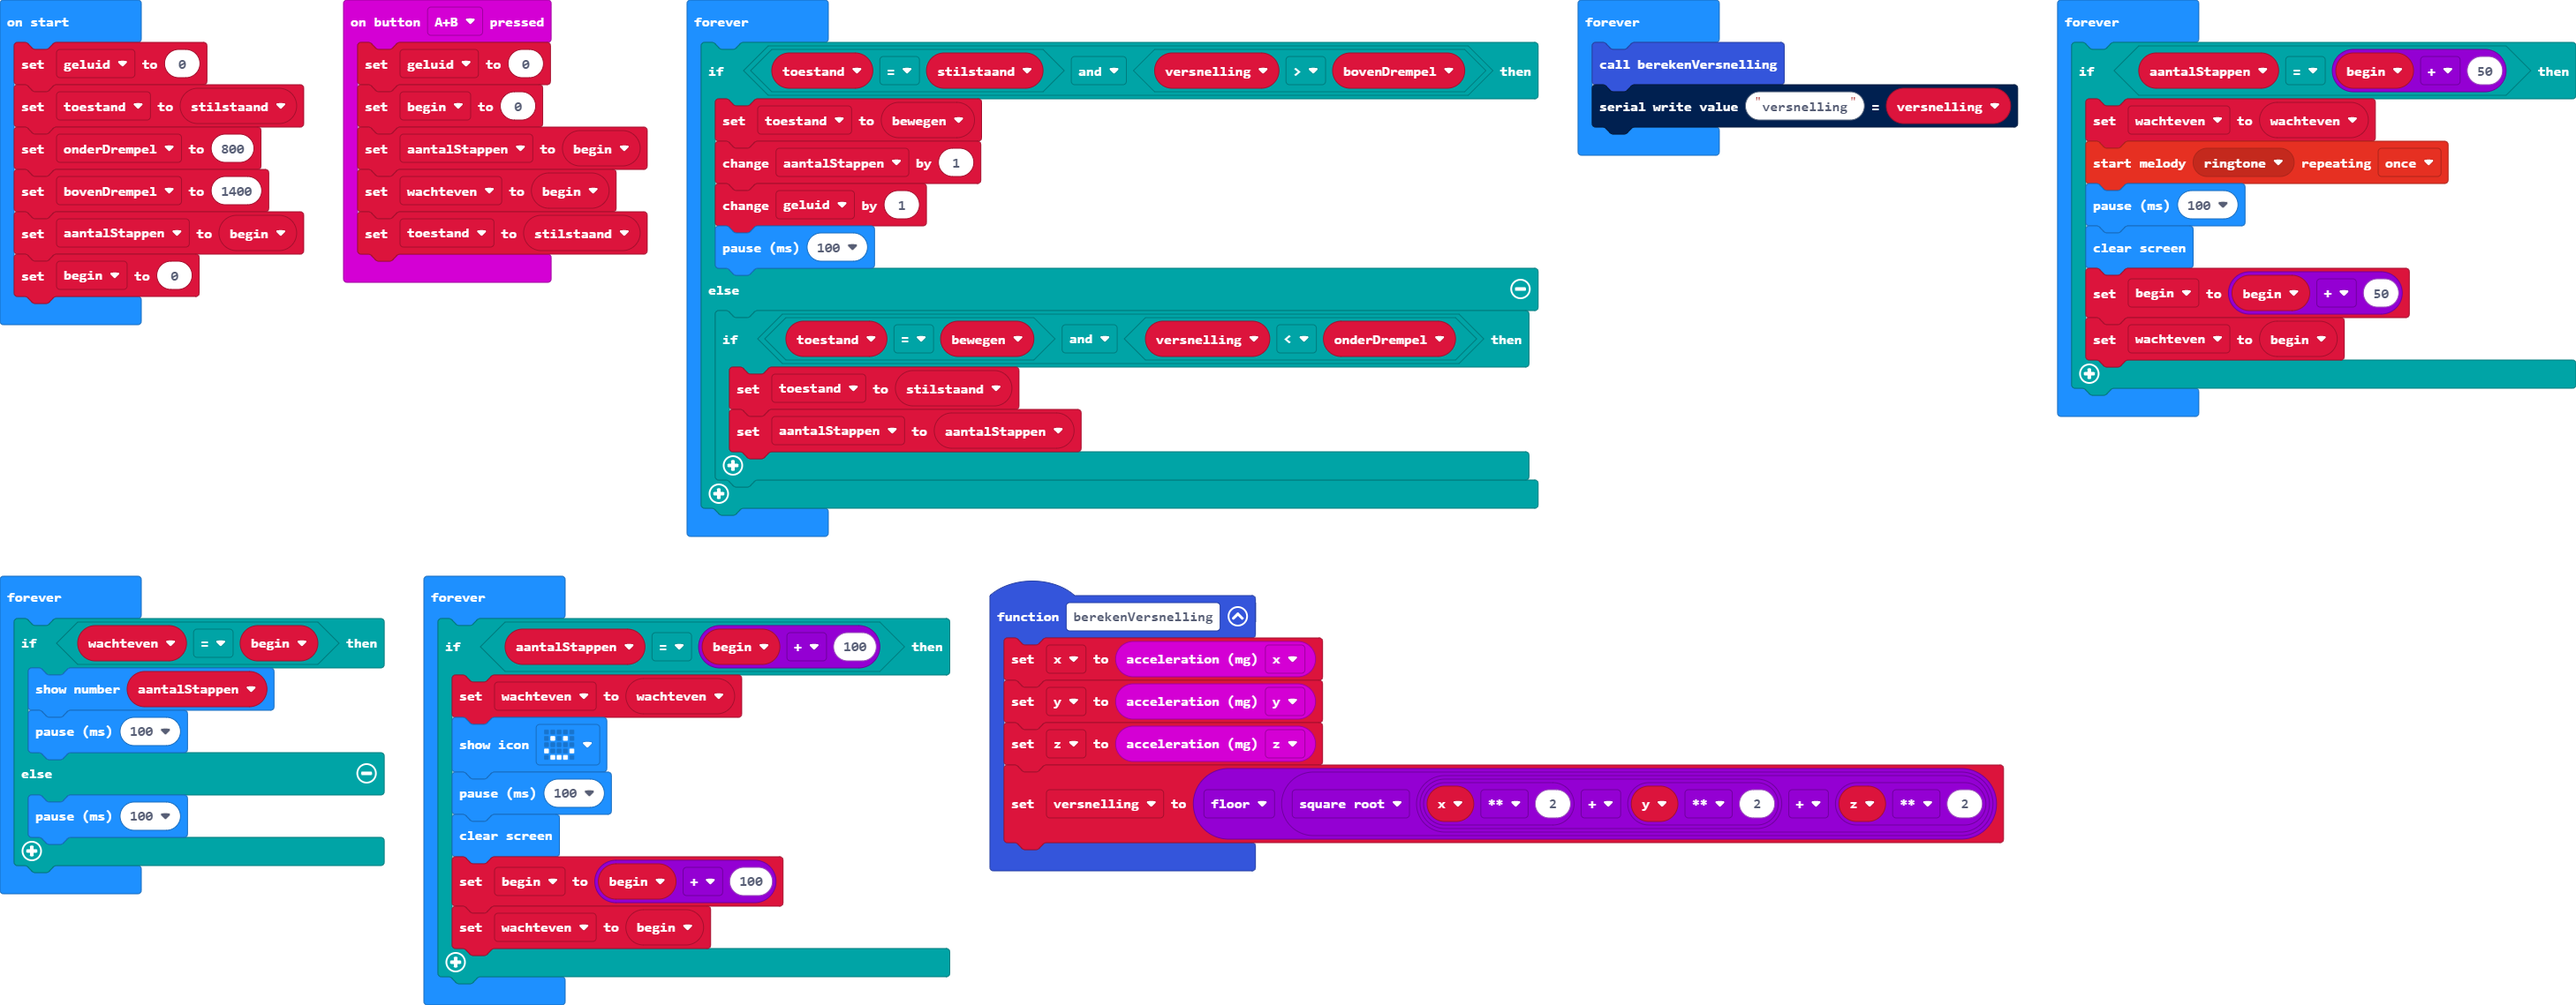
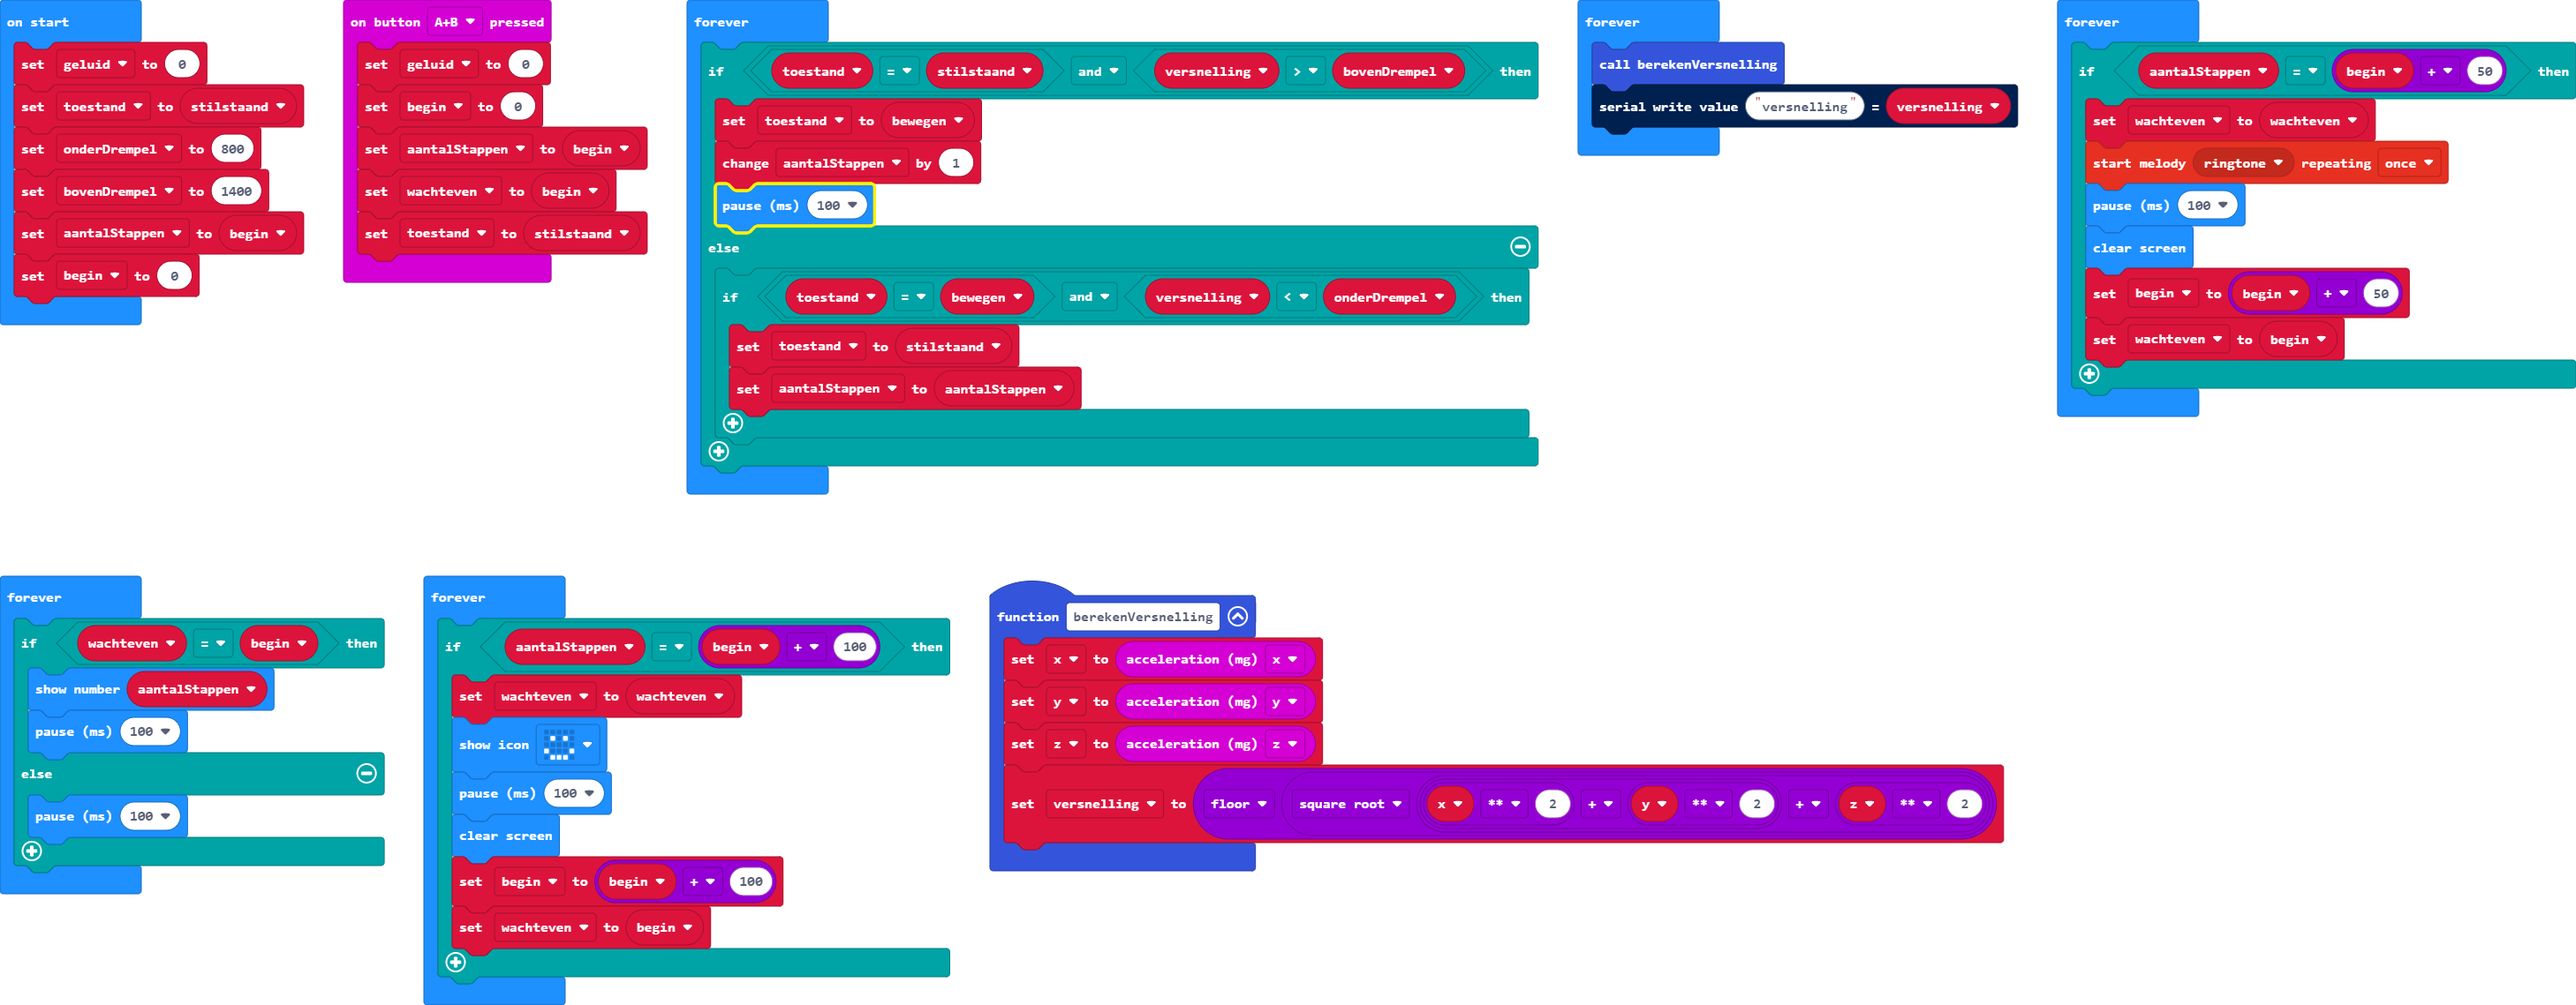
Update main.blocks, main.ts

Changed region(s): [[0.2496, 0.1536, 0.6239, 0.5531]]

diff --git a/main.ts b/main.ts
@@ -32,7 +32,6 @@ basic.forever(function () {
     if (toestand == stilstaand && versnelling > bovenDrempel) {
         toestand = bewegen
         aantalStappen += 1
-        geluid += 1
         basic.pause(100)
     } else {
         if (toestand == bewegen && versnelling < onderDrempel) {
